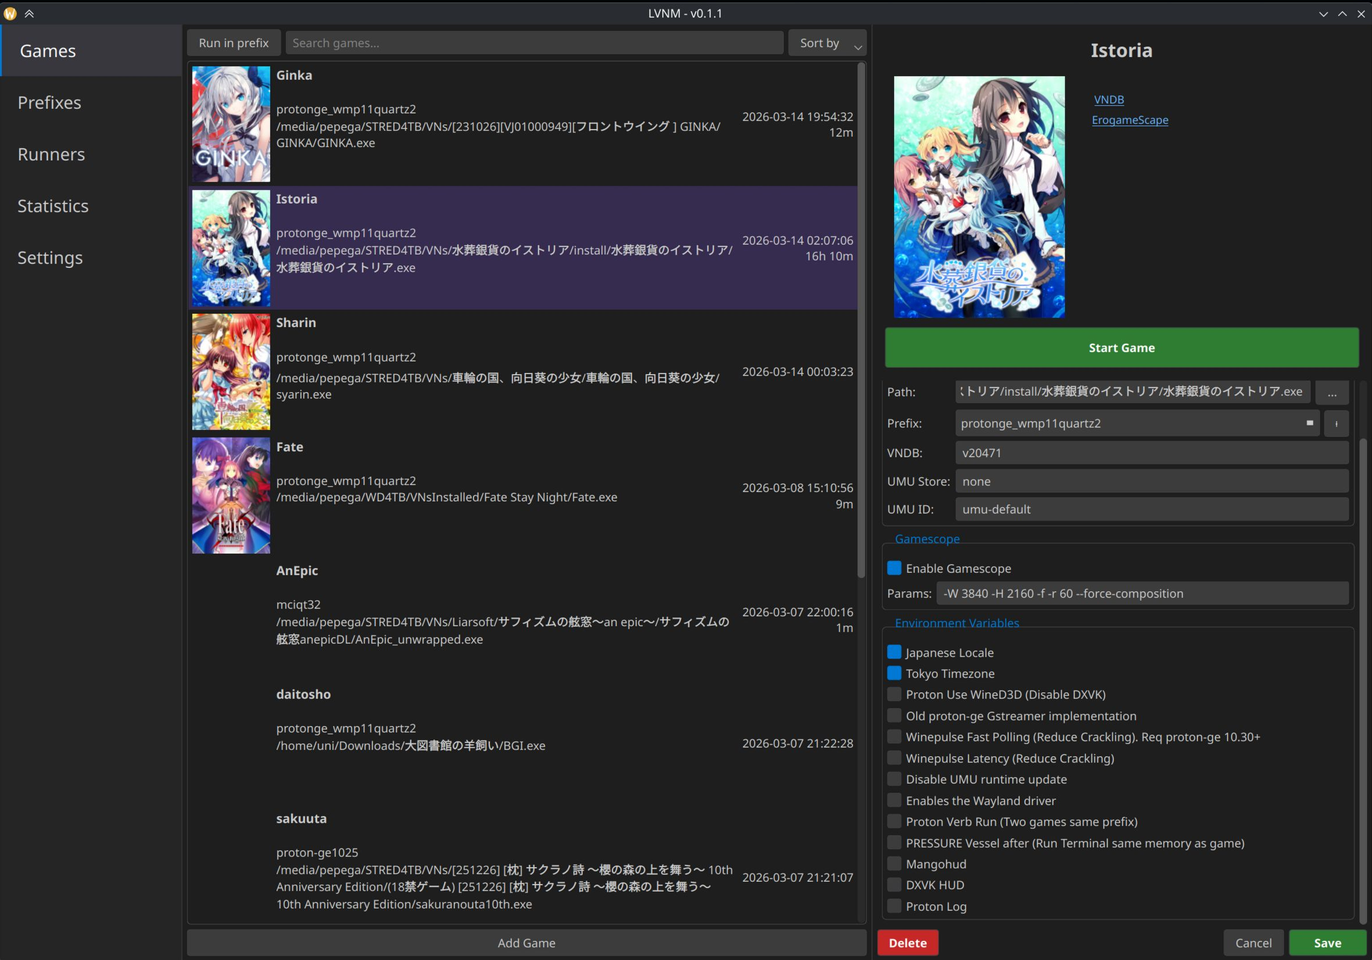
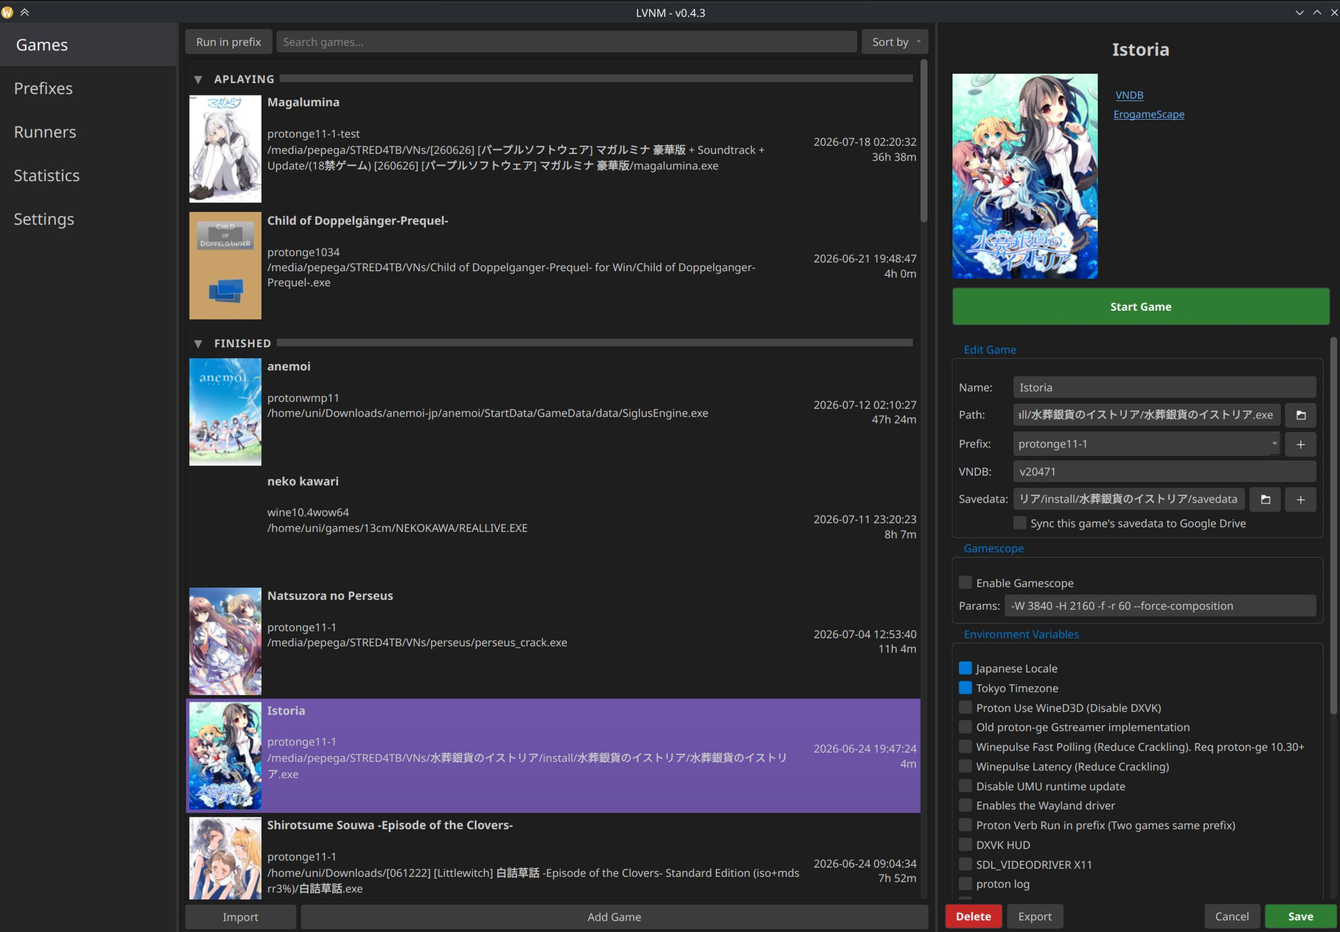
New version.

diff --git a/lvnm/config.py b/lvnm/config.py
@@ -1,7 +1,7 @@
 from pathlib import Path
 import tempfile
 
-VERSION = 'v0.4.3'
+VERSION = 'v0.5.0'
 GIT_URL = 'https://github.com/uunniiblog/linux-vn-manager-lvnm'
 
 # Paths

diff --git a/README.md b/README.md
@@ -12,107 +12,33 @@ Attempt at making a visual novel manager for linux. It doesn't really do anythin
  - Import and export game and prefixes configuration.
  - Easy texthooking.
  - Create Steam shortcuts with covers for the Steam Deck.
+ - Sync game savedata seamlessly between devices with Google Drive (check Save Data Management section for setup instructions).
  - PySide QT 6 interface.
 
- ![lvnm-Screenshot](.github/images/lvnm.jpg)
+<div align="center">
+<a href=".github/images/lvnm.jpg"><img src=".github/images/lvnm.jpg" width="75%"></a>
+<table>
+    <tr>
+        <td><a href=".github/images/lvnm2.jpg"><img src=".github/images/lvnm2.jpg" width="100%"></a></td>
+        <td><a href=".github/images/settings.jpg"><img src=".github/images/settings.jpg" width="100%"></a></td>
+        <td><a href=".github/images/statistics.jpg"><img src=".github/images/statistics.jpg" width="100%"></a></td>
+    </tr>
+</table>
+</div>
 
  ##  AppImage
 Releases over here: https://github.com/uunniiblog/linux-vn-manager-lvnm/releases
 
 It bundles umu and winetricks so it runs smoothly in the Steam Deck.
 
- ## How to use
+## How to use
+1. Runner tab -> Download wine and proton runners.
+2. Prefix tab -> Create a prefix with the downloaded runner.
+3. Games tab -> Add a game and set the created prefix before.
 
- 1. **Runners tab**: Download a runner
-    - Sub tab for proton runners from steam folder **~/.local/share/Steam/compatibilitytools.d/.** Can add proton-ge runners downloaded from GloriousEggroll github.
-    - Sub tab for wine runners, they are stored in **~/.local/share/lvnm/runners/wine/.** Can add normal amd64 and wow64 builds from Kron4ek github
-    - Delete selected: Perma remove it from disk, there is a confirm window.
-    - To the right of every runner there will be a list of prefixes currently using it.
- 2. **Prefixex tab**: Make a prefix with the runners availables
-    - To the right of every prefix there will be a list of games currently using it.
-    - Buttons:
-        - **Create a prefix**: Create a new prefix
-            <ul>
-            <li>Name: Add a identificate name, example: protonge10.25_wmp11_quartz.</li>
-            <li>Path: locked field, will be stored in ~/.local/share/lvnm/prefixes/ with the name given.</li>
-            <li>Runner: Select a runner from all the installed runners.</li>
-            <li>Symlink fonts into prefix: Makes a symlink of the all the fonts folder configured in Settings into the new prefix.</li>
-            <li>DPI: Automatically sets DPI for prefix based on monitor resolution, useful for old low resolution installers and maybe some games.</li>
-            <li>Wayland driver: To activate wayland native driver at regedit level, useful for wine runners that do not have the environment variable to enable it. Do not recommended since it breaks fullscreen even harder in a lot of older VNs, but maybe useful for some cases like installers or editing winecfg. </li>
-            <li>Codecs: Install custom codecs into the prefix from https://www.vnwiki.xyz/linux/special-codecs.html </li>
-            <li>Winetricks: Install winetricks. There are some preconfigured here: https://github.com/uunniiblog/linux-vn-manager-lvnm/blob/main/lvnm/config.py in WINETRICKS_LIST. There is a text field to also install any extra winetricks you want. </li>
-            <li> 32 bit prefix: Only available with wine builds that are not wow64. There isn't really much utility to it nowdays though. </li>
-            </ul>
-        - **Edit prefix**: Basically same options. Can't remove codecs, winetricks or fonts installed already.
-        - **Delete prefix**: Perma delete a prefix, there is a confirm window.
-        - **Utility buttons**:
-            <ul>
-            <li>Regedit: Opens windows registry for the prefix.</li>
-            <li>Winecfg: Opens Wine configuration window for the prefix.</li>
-            <li>Winefile: Opens Wine file explorer for the prefix. </li>
-            <li>wineboot cmd: Opens windows cmd terminal inside the prefix.</li>
-            <li>Bash: Opens linux terminal with wine/proton path and WINEPREFIX env variables preloaded at prefix folder. Useful to test stuff. Inherits global environment variables. Added $RUN_GAME with the path to the wine/proton runner of the prefix. </li> 
-            </ul>
-            All utility options are also available from the game tab.
+Check Settings tab to enable optional stuff like timetracking, gdrive sync, automatic fonts, etc.
 
-    - Can also right click any prefix for the same options.
-    - Note: When a codec or winetricks is installed it cannot be removed, will need to make a new prefix.
-
-3. **Games tab**: List and run games
-    - **Add game**: Opens sidebar to fill info to add a game
-        - **Name**: name or whatever indicative of the game. Mandatory.
-        - **Path**: path to the .exe of the game. click the three dots to open file system picker. Mandatory.
-        - **Prefix**: Combo with all prefixes in the application, choose one. Mandatory.
-        - **VNDB**: the VNDB id for the game (v11,v12, etc). Will fetch the cover and display vndb/egs link at the top. Optional.
-        - **Gamescope**: Enable/disable gamescope and launch parameters, example: -W 3840 -H 2160 -f -r 60. Can be configured in settings to be filled automatically.
-        - **Environment Variables**: Enable/Disable them as they fit for your game. Mouse over them to show the exact command. Can be configured in settings to be filled automatically. There are a few common environment variables preloaded in the application, but can add more or remove them freely from settings tab.
-        - Some variables are exclusive to proton/wine, won't show if they don't apply.
-        - **Advanced settings**: Opens a dialog with extra options that are rarely used:
-            - Umu store and Umu ID fields when using a prefix with a proton runner in the game.
-            - Pre launch command: For linux pre launch commands like mangohud, gamemoderun, obs-gamecapture, etc.
-            - Arguments: For window games/application that take a parameter, example notepad.exe C:\test.txt to open text.txt directly.
-            - Pre launch script: bash script to be executed before the game. There is a "Wait for game to open" checkbox that detects the game window is open (It uses DesktopUtils, so if the game is running with wayland in a different desktop than KDE it won't work correctly, in this case add a sleep to your script).
-            - Post launch script: bash script to be executed when the game is detected to be closed. Do note that if the launcher is closed by this point it won't execute the script. In Gaming Mode this won't be executed if you force exit the game through Steam interface instead of closing the game naturally (Will try to fix at some point).
-            - Vndb release images: Search for a game in the vndb database, it will pull all images found in the game cover and releases. Can choose a vertical cover and a horizontal layout to be used with Steam shortcuts.
-            - SteamGridDB images: Search for a game name in the SteamGrid database, will fetch all grids and heroes images so can also select a vertical cover and horizontal layout from here. Requires your own api key https://www.steamgriddb.com/profile/preferences/api to be added in the settings tab.
-    - **Edit game**: Click one game from the list to show current data to edit. Same fields. Can also Start game from there.
-    - **Run in prefix**: Run a game in a prefix without adding an entry, maybe useful to run some installers quickly. Environment variables will be gotten from global ones at settings.
-    - **Search**: Filter games by name.
-    - **Sort By**: sort by name, prefix, last played, or total playtime.
-    - **Game list**
-        - Can double click an entry to instantly run the game.
-        - Can right click an entry to show some extra options as run game, browse files, show logs, duplicate, etc.
-        - Three colums:
-            <ul>
-                <li>Cover: if vndb id is filled it will show real cover, otherwise empty.</li>
-                <li>Name: Will show the name, with the prefix and path below. </li>
-                <li>Last played date and playtime count.</li>
-            </ul>
-        - Steam/desktop shortcut: Right click an entry to add. The application will be run headless without GUI in this mode. Timetracking will still work in the background if enabled. Do note that the exit script will only be executed if the game closes in a natural way when the application is running through shortcut. If you close it through steam interface it will forcefully close the launcher before the exit script is executed.
-        - Label: Can right click a game to create labels (Playing, Finished, etc) to group games in sections. Sections can be expaned or collapsed to hide all the games in one section. Can right click over the header of a section to delete it.
-        - Export and Import: from the sidebar or right clicking a game you can export the configuration of the game and prefix in a json file. It can be imported with the Import button at the botton next to add game.
-4. **Statistics tab**: If timetracking has been enabled when you run a game it will count your playtime. This tab shows some simple graphs by app or global based on your playtime.
-5. **Settings tab**
-    - Functional Settings:
-        - Font folder: Path to a folder with your fonts. This fonts can be symlinked to prefixes to reduce disk space.
-        - Gamescope: Enable gamescope and global parameters. When you add a game this setting will be automatically loaded, can be edited later per game as it fits better.
-        - Global Env Variables: Enable global environt variables checkboxes. When you add a game this setting will be automatically loaded, can be edited later per game as it fit. Will also be used when running a game in "Run in prefix".
-        - Manage Variables: To add and remove new environment variables, if you remove one variable from the application being used by a game it will be deleted from the game.
-    - Appearance Settings:
-        - Dark/Light mode.
-        - Ui scaling.
-    - Timetracker: Enable/disable it
-        - AFK Idle timer: timer to stop counting in case you go afk with the game focused. Requires [swayidle](https://github.com/swaywm/swayidle) to be installed.
-        - Periodic save interval: Save the session every X minutes in case of power shutdown or app crash.
-        - Autostart: Choose if start autotracking when the game opens or not. If not you can start tracking manually from the sidebar once the game is running.
-    - Texthooking: Enable/disable it
-        - Path: Select the .exe of your texthooker. Right click a running game "Open Texthooker" to run it targeted to the game.
-        - Textractor will automatically hook to the game with -pgame.exe, also tested Luna and Agent, both can hook through the program's interface. 
-        - Note that some hook codes behave differently through wine/proton and may crash the game.
-    - Directories: Modify paths of data folders for prefixes, runners, vndb covers and timetracker log files. Useful if you have low disk space in your main system drive. Restart the application after doing any changes here to fully reload the new paths.
-    - System info: List useful system info and gstreamer libraries I have found pretty useful to run videos in VNs with wow64 wine builds.
-
-Config and data stored at: **~/.local/share/lvnm/**
+For a complete list of all options in the application check the wiki: https://github.com/uunniiblog/linux-vn-manager-lvnm/wiki#how-to-use
 
 ## Import games
 You can import games with their runner and prefix configuration.
@@ -140,6 +66,9 @@ Run the game without gui, already used within the application for steam and desk
 # From source
 python /path/to/linux-vn-manager-lvnm/lvnm/launcher.py -r game_name
 
+# From venv
+/path/to/linux-vn-manager-lvnm/venv/bin/python /path/to/linux-vn-manager-lvnm/lvnm/launcher.py -r game_name
+
 # From appimage
 /path/to/LVNM-x86_64.appimage -r game_name
 ```
@@ -159,10 +88,13 @@ Before using the background tracker via Steam launch options, ensure the followi
 #### Launch from terminal:
 ```bash
 # From source
-python /path/to/linux-vn-manager-lvnm/lvnm/launcher.py -t game_name
+python /path/to/linux-vn-manager-lvnm/lvnm/launcher.py -t "game_name"
+
+# From venv
+/path/to/linux-vn-manager-lvnm/venv/bin/python /path/to/linux-vn-manager-lvnm/lvnm/launcher.py -t "game_name"
 
 # From appimage
-/path/to/LVNM-x86_64.appimage -t game_name
+/path/to/LVNM-x86_64.appimage -t "game_name"
 ```
 
 #### Configuration for Steam
@@ -171,11 +103,16 @@ To launch the tracker alongside the game automatically, copy your command and pa
 
 ```bash
 # From source
-python /path/to/linux-vn-manager-lvnm/lvnm/launcher.py -t game_name & %command%
+python /path/to/linux-vn-manager-lvnm/lvnm/launcher.py -t "game_name" & %command%
+
+# From venv
+/path/to/linux-vn-manager-lvnm/venv/bin/python /path/to/linux-vn-manager-lvnm/lvnm/launcher.py -t "game_name" & %command%
 
 # From appimage
-/path/to/LVNM-x86_64.appimage -t game_name & %command%
+/path/to/LVNM-x86_64.appimage -t "game_name" & %command%
 ```
+
+If you face any issues I recommend to enable "Write logging to file" and check the file to detect any errors.
 
 ## Timetracking
 Can be enabled in settings.
@@ -185,27 +122,70 @@ Timetracking will only track "real" playing time, it will only count the time wh
 Current working desktops:
 - KDE 6: Fully working for both X11 and Wayland through KWIN queries.
 - Gamescope session: In this case it will just count the time the game is open. If you minimize the game to go config controllers or other sections of Steam while game is running it will keep counting.
-
-As a fallback it uses x11_utils (python-xlib) which should work in any x11 desktop through xwayland. That means any game not purposefully running through the wayland driver should still work. If you run the game with gamescope you will need to use **--backend sdl** and **SDL_VIDEODRIVER=x11** environment variable for gamescope to run as x11 to be able to timetrack it.
+- Xwayland: As a fallback it uses x11_utils (python-xlib) which should work in any x11 desktop or in wayland running games through xwayland. That means any game not purposefully running through the wayland driver should still work. If you run the game with gamescope you will need to use **--backend sdl** and **SDL_VIDEODRIVER=x11** environment variable for gamescope to run as x11 to be able to timetrack it.
 
 The tracking data is stored at **~/.local/share/lvnm/tracking/** as csv files with one line per session. If manual intervention is needed you can add/edit/delete lines there manually without issue. The info will be stored as the process name + file size in case the game has a dynamic title window, the name given in the application is changed or there are different games with same exe name like SiglusEngine.exe, etc.
 
-I brought the timetracking from another application I made last year, If you want it as a standalone application it is here: https://github.com/uunniiblog/playtimetracker Although it is a bit outdated compared to the version here.
-
-With wayland the way of checking focused windows changes based on Desktop implementations, feel free to request PRs here or in the playtimetracker repo for other desktops. An implementation of **DesktopUtilsInterface**, plus adding the desktop to **utils_factory.py** is all it should be needed. Can also use external libraries if it makes it easier.
+Can also timetrack games that are not running through the launcher in case you still want to keep your playtime count in the application. Check CLI options for the how to.
 
 If timetracking is enabled when a game is running it will show in the side bar the current tracking stats for the game. 
 There will be a button to open a dialog where you can manually select an opened window to start tracking, or to stop current active tracking. This is useful in case you don't want to autostart the timetracker with the game, or the autostart logic can't detect the game correctly, in case it is a game with a launcher for example.
 
-The autostart tracking detects the running by searching the pid of the process executed first. Manual tracking directly selects the window ID that the compositor gives so it is more direct and should work better in case there are issues, usually only happens with games running through launchers, or running games in unusual ways. Both will store in the same csv file name so saved playing times will be shared between both autostart and manual.
+The autostart tracking detects the running by searching the pid of the process executed first. Manual tracking directly selects the window ID that the compositor gives so it is more direct and should work better in case there are issues, usually only happens with games running through launchers, or running games in unusual ways like a bat file. Both will store in the same csv file name so saved playing times will be shared between both autostart and manual.
 
 As said above there is an AFK idle detector timer with [swayidle](https://github.com/swaywm/swayidle). Requires manual installation through your distro, doesn't work in gaming mode in the Steam Deck.
 
-## Planned
-- Save data management: move all game saves to a shared folder in case of prefix deletions no data is lost. Try to auto detect common save paths for VNs.
-- One game one prefix. Automatically copies the selected prefix making prefixes unique per games.
-- More suggestions are always welcomed.
+With wayland the way of checking focused windows changes based on Desktop implementations, feel free to request PRs here or in the playtimetracker repo for other desktops. An implementation of **DesktopUtilsInterface**, plus adding the desktop to **utils_factory.py** is all it should be needed. Can also use external libraries if it makes it easier.
 
+## Save Data Management
+
+In settings you can enable **Savedata Management** which will enable all other settings, if you want to disable it altogether you can also disable this checkbox.
+- **Auto Detect Save**: if enabled will try to find the savedata folder of the game after closing it if the savedata field is still blank.
+- **Manage Savedata**: Opens a dialog with all games to see their current savedata paths. From here you can manually set them or try the auto detect feature, can also copy the saves to another prefix and configure which games you want to sync through Gdrive. Can force a Gdrive sync too. This dialog can also be opened from the sidebar next to the savedata field when Savedata Management is enabled.
+- **Automatically Enable**: Enables Gdrive Sync for all new games automatically, can still disable it for individual games. I recommend to leave it on so the case where you forget to enable it for a game already in Gdrive happens, and thus creating new fresh saves instead of downloading them, potentially giving conflicts, if this happens there should still be a warning in the application letting you choose which ones to keep though.
+- **Automatically enable GDrive**: Enables automatically the checkbox for Gdrive sync for all new and imported games.
+- **Gdrive Client ID and secret**: Authorization tokens for the Google cloud saving setup. Fill them and log in. You need to leave them there for the sync to keep working.
+
+If Gdrive sync is enabled for a game and Savedata Management checkbox is enabled the savedata will sync before and after closing the game in question. It will create a LVNM/[Game} folder in your GDrive where {Game} is the name of the game in the application, if you want to sync the same game between multiple devices make sure they have the same name in the application in all devices. Changing the name of the game will also create a new folder in GDrive and start syncing fresh there, so be careful with that.
+
+The program will give priority to the latest modified date in case of conflicts, so the latest version of the save slots are kept. There are a couple of safeguards measure in case the Gdrive folder or all files are deleted, so your local files won't be deleted, and also in case of unresolvable conflicts at first time syncs. But as always be careful to not delete cloud saves of games you are still playing. The application Gdrive is also scoped so it can only see files the own application uploaded, this means if you manually upload a save file to a game folder the application won't read them, Use the sync now in the Savedata Management or launch the game to sync the saves.
+
+Auto detect logic is basically a bunch of hardcoded folder names in the game folder and common save location inside the prefix searching by the game name or the original japanese name (needs to have a VNDB id to fetch this first).
+
+To enable Google Sync for save data between multiple devices Add your own Google Cloud client project. Steps explained in the Wiki: https://github.com/uunniiblog/linux-vn-manager-lvnm/wiki/Google-Drive-Cloud-Project-Setup
+
+### Workflow -> Avoid Corrupting Savedata
+I believe it should be straightforward and common sense, but worth reading just in case:
+
+Once you are logged into gdrive you can enable gdrive sync per game. Once enabled when you launch and close the game it will sync the data: First time you open the game with gdrive sync enabled it will always upload your current local saves into GDrive. From there next syncs will update, modify, add or delete files by comparing modified time with an internal file tracker per device. Assuming you are using more than one PC this is generally how you want to configure it:
+1. If you have a game you are already playing in both PCs: 
+    - In your first PC: Simply adding the savedata path and enable GDrive sync. Launch game or manually Sync it from the dialog to upload data to Gdrive.
+    - In your next PCs: Same thing: add the folder and enable Gdrive sync, when you sync it will update and compare by modified date then grab or upload new saves depending on what PC you played last.
+    * Make sure the game has the same name in the application for the sync to fetch from the same Gdrive folder.
+2. New game in both PCs
+    - First PC: Add the game to the application. Since its a new game you don't have savedata you can't put it yet. So launch the game to create the savedata folder. Then add the path and enable gdrive sync for the game. Next time you launch it will upload to gdrive.
+    - Next PCs: Add the game (with same name) to the application, enable gdrive and launch game. It will fetch the relative savedata path folder from GDrive and create the folder then download the savedata into the folder. 
+    * Worst thing that can happen is that you launch the game without enabling drive and thus creating local savedata with newer modified time, and then uploading it to gdrive if you enable gdrive and sync it later. I recommend enabling the Automatically enable Gdrive checkbox at least in secondary PCs so this doesn't happen. A warning pop up will appear in this case to ask if you want to keep local or cloud saves before launching the game
+    * You can also enable Gdrive sync in first launch in first PC without savedata folder, it will give a warning that there is nothing to sync, but it doesn't hurt.
+
+If you change your prefix the savedata path of the game could also change, the application will give a warning when this can happen. To not corrupt the saves you can do one of the two things:
+1. Remove the savedata path from the game -> it will fetch the relative savedata path from gdrive, create it in the new prefix and download the updated savedata there.
+2. Before changing prefix, Open savedata dialog -> Click Copy to button and select the new prefix. It will copy the savedata from actual prefix to the new one.
+
+
+Worst case scenario, files are never permanently deleted. Deleted files will be in the trash folder and updated files can also be restored in file information -> manage versions. 
+If you need to manaully reset the file state of a game, delete the savedata path and save. then delete either GDrive folder or local save files depending what you want to keep. set up the savedata path again and start syncing.
+
+### Steam Deck users
+If you use Steam shortcuts to play the games in Gaming Mode then be careful when exiting the game to do it through the game's menu and not through Steam exit's since it sends a sigkill that forcefully closes the launcher and thus won't sync the savedata files when closing the game.
+
+To log in in a Steam Deck if you don't want to log in with your google's account you can also open it in your phone or pc https://www.google.com/device and copy the code, there is no need to do it in the same device that you will use.
+
+
+## Planned
+- New UI toggle for handheld/tv mode with controller support. I believe there isn't a pure pyside6 library to help with this though, so probably will take a while.
+- Native games and emulators: I want to get this working too at some point.
+- Any suggestion or bugs feel free to open an issue.
 
 ## Tools and Credits
 Tools used and inspiration:
@@ -216,10 +196,12 @@ Tools used and inspiration:
 - Kron4ek wine builds: https://github.com/Kron4ek/Wine-Builds
 - Gamescope: https://github.com/ValveSoftware/gamescope
 - Winetricks: https://github.com/Winetricks/winetricks/
-- Codecs: https://github.com/b-fission/vn_winestuff/
-- swayidle: for idle/afk detection: https://github.com/swaywm/swayidle
+- Codecs script: Used to install codecs: https://github.com/b-fission/vn_winestuff/
+- swayidle: Used for idle/afk detection: https://github.com/swaywm/swayidle
 - kdotool: Inspiration to build the timetracking for KDE: https://github.com/jinliu/kdotool
 - Lutris: Interface and functionality inspiration: https://github.com/lutris/lutris
+- Gdrive sync: https://github.com/googleapis/google-api-python-client
+- python-xlib: Timetracking for Xwayland/X11: https://github.com/python-xlib/python-xlib
 
 ## Run from source directly
 ```bash
